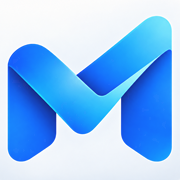
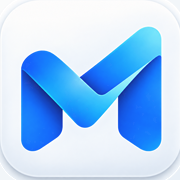
iPhone ikonunda M harfinin oranı düzeltildi
apple-touch-icon %24 yakınlaştırıldığı için M harfi ikonu kenardan kenara
dolduruyordu. Yakınlaştırma %6'ya indirildi; M, kaynak ikondaki gibi
beyaz boşlukla duruyor.

diff --git a/public/sw.js b/public/sw.js
@@ -1,6 +1,6 @@
 // MesaiGo - Service Worker
 // Kimlik doğrulamalı sayfalar ve API asla önbelleğe alınmaz; yalnızca statik dosyalar.
-const CACHE = "mesaigo-static-v9";
+const CACHE = "mesaigo-static-v10";
 const PRECACHE = ["/offline.html", "/icons/icon-192.png", "/icons/icon-512.png", "/icons/apple-touch-icon.png", "/brand/mesaigo-dark.png", "/brand/mesaigo-white.png"];
 
 self.addEventListener("install", (event) => {
